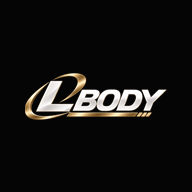
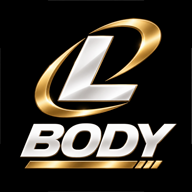
Novo icone do app L Body

diff --git a/sw.js b/sw.js
@@ -1,6 +1,6 @@
 // L Body — service worker
 // Estratégia: rede primeiro (sempre pega a versão nova do app) e, sem internet, usa o que está salvo.
-const CACHE_NAME = 'l-body-v5';
+const CACHE_NAME = 'l-body-v6';
 const CORE = [
   './',
   'index.html',
